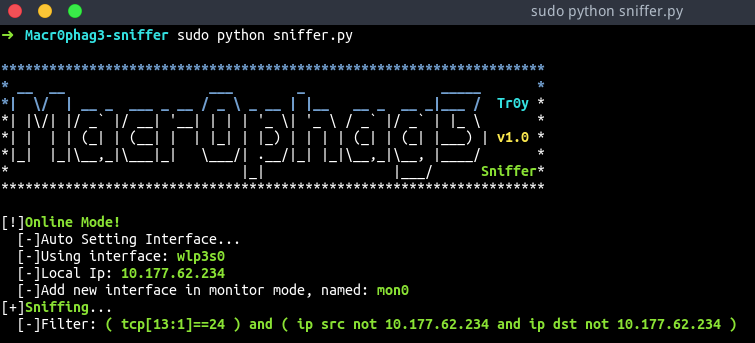
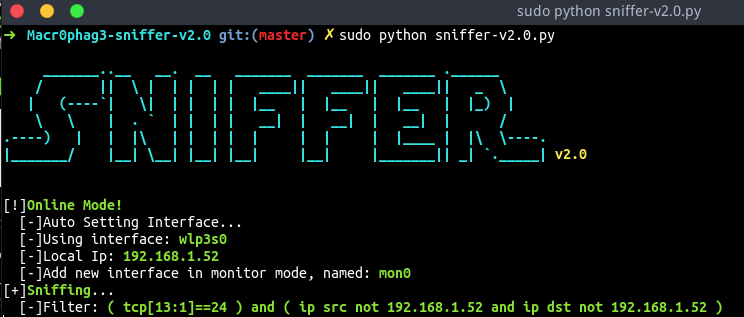
update README.md

diff --git a/README.md b/README.md
@@ -1,10 +1,10 @@
 ```
- __  __                  ___        _                 _____       
-|  \/  | __ _  ___ _ __ / _ \ _ __ | |__   __ _  __ _|___ /  Tr0y 
-| |\/| |/ _` |/ __| '__| | | | '_ \| '_ \ / _` |/ _` | |_ \       
-| |  | | (_| | (__| |  | |_| | |_) | | | | (_| | (_| |___) | v2.0 
-|_|  |_|\__,_|\___|_|   \___/| .__/|_| |_|\__,_|\__, |____/       
-                             |_|                |___/      Sniffer
+     _______..__   __.  __   _______  _______  _______ .______      
+    /       ||  \ |  | |  | |   ____||   ____||   ____||   _  \      
+   |   (----`|   \|  | |  | |  |__   |  |__   |  |__   |  |_)  |    
+    \   \    |  . `  | |  | |   __|  |   __|  |   __|  |      /      
+.----)   |   |  |\   | |  | |  |     |  |     |  |____ |  |\  \----.
+|_______/    |__| \__| |__| |__|     |__|     |_______|| _| `._____| v2.0
 ```
 # 中文
 
